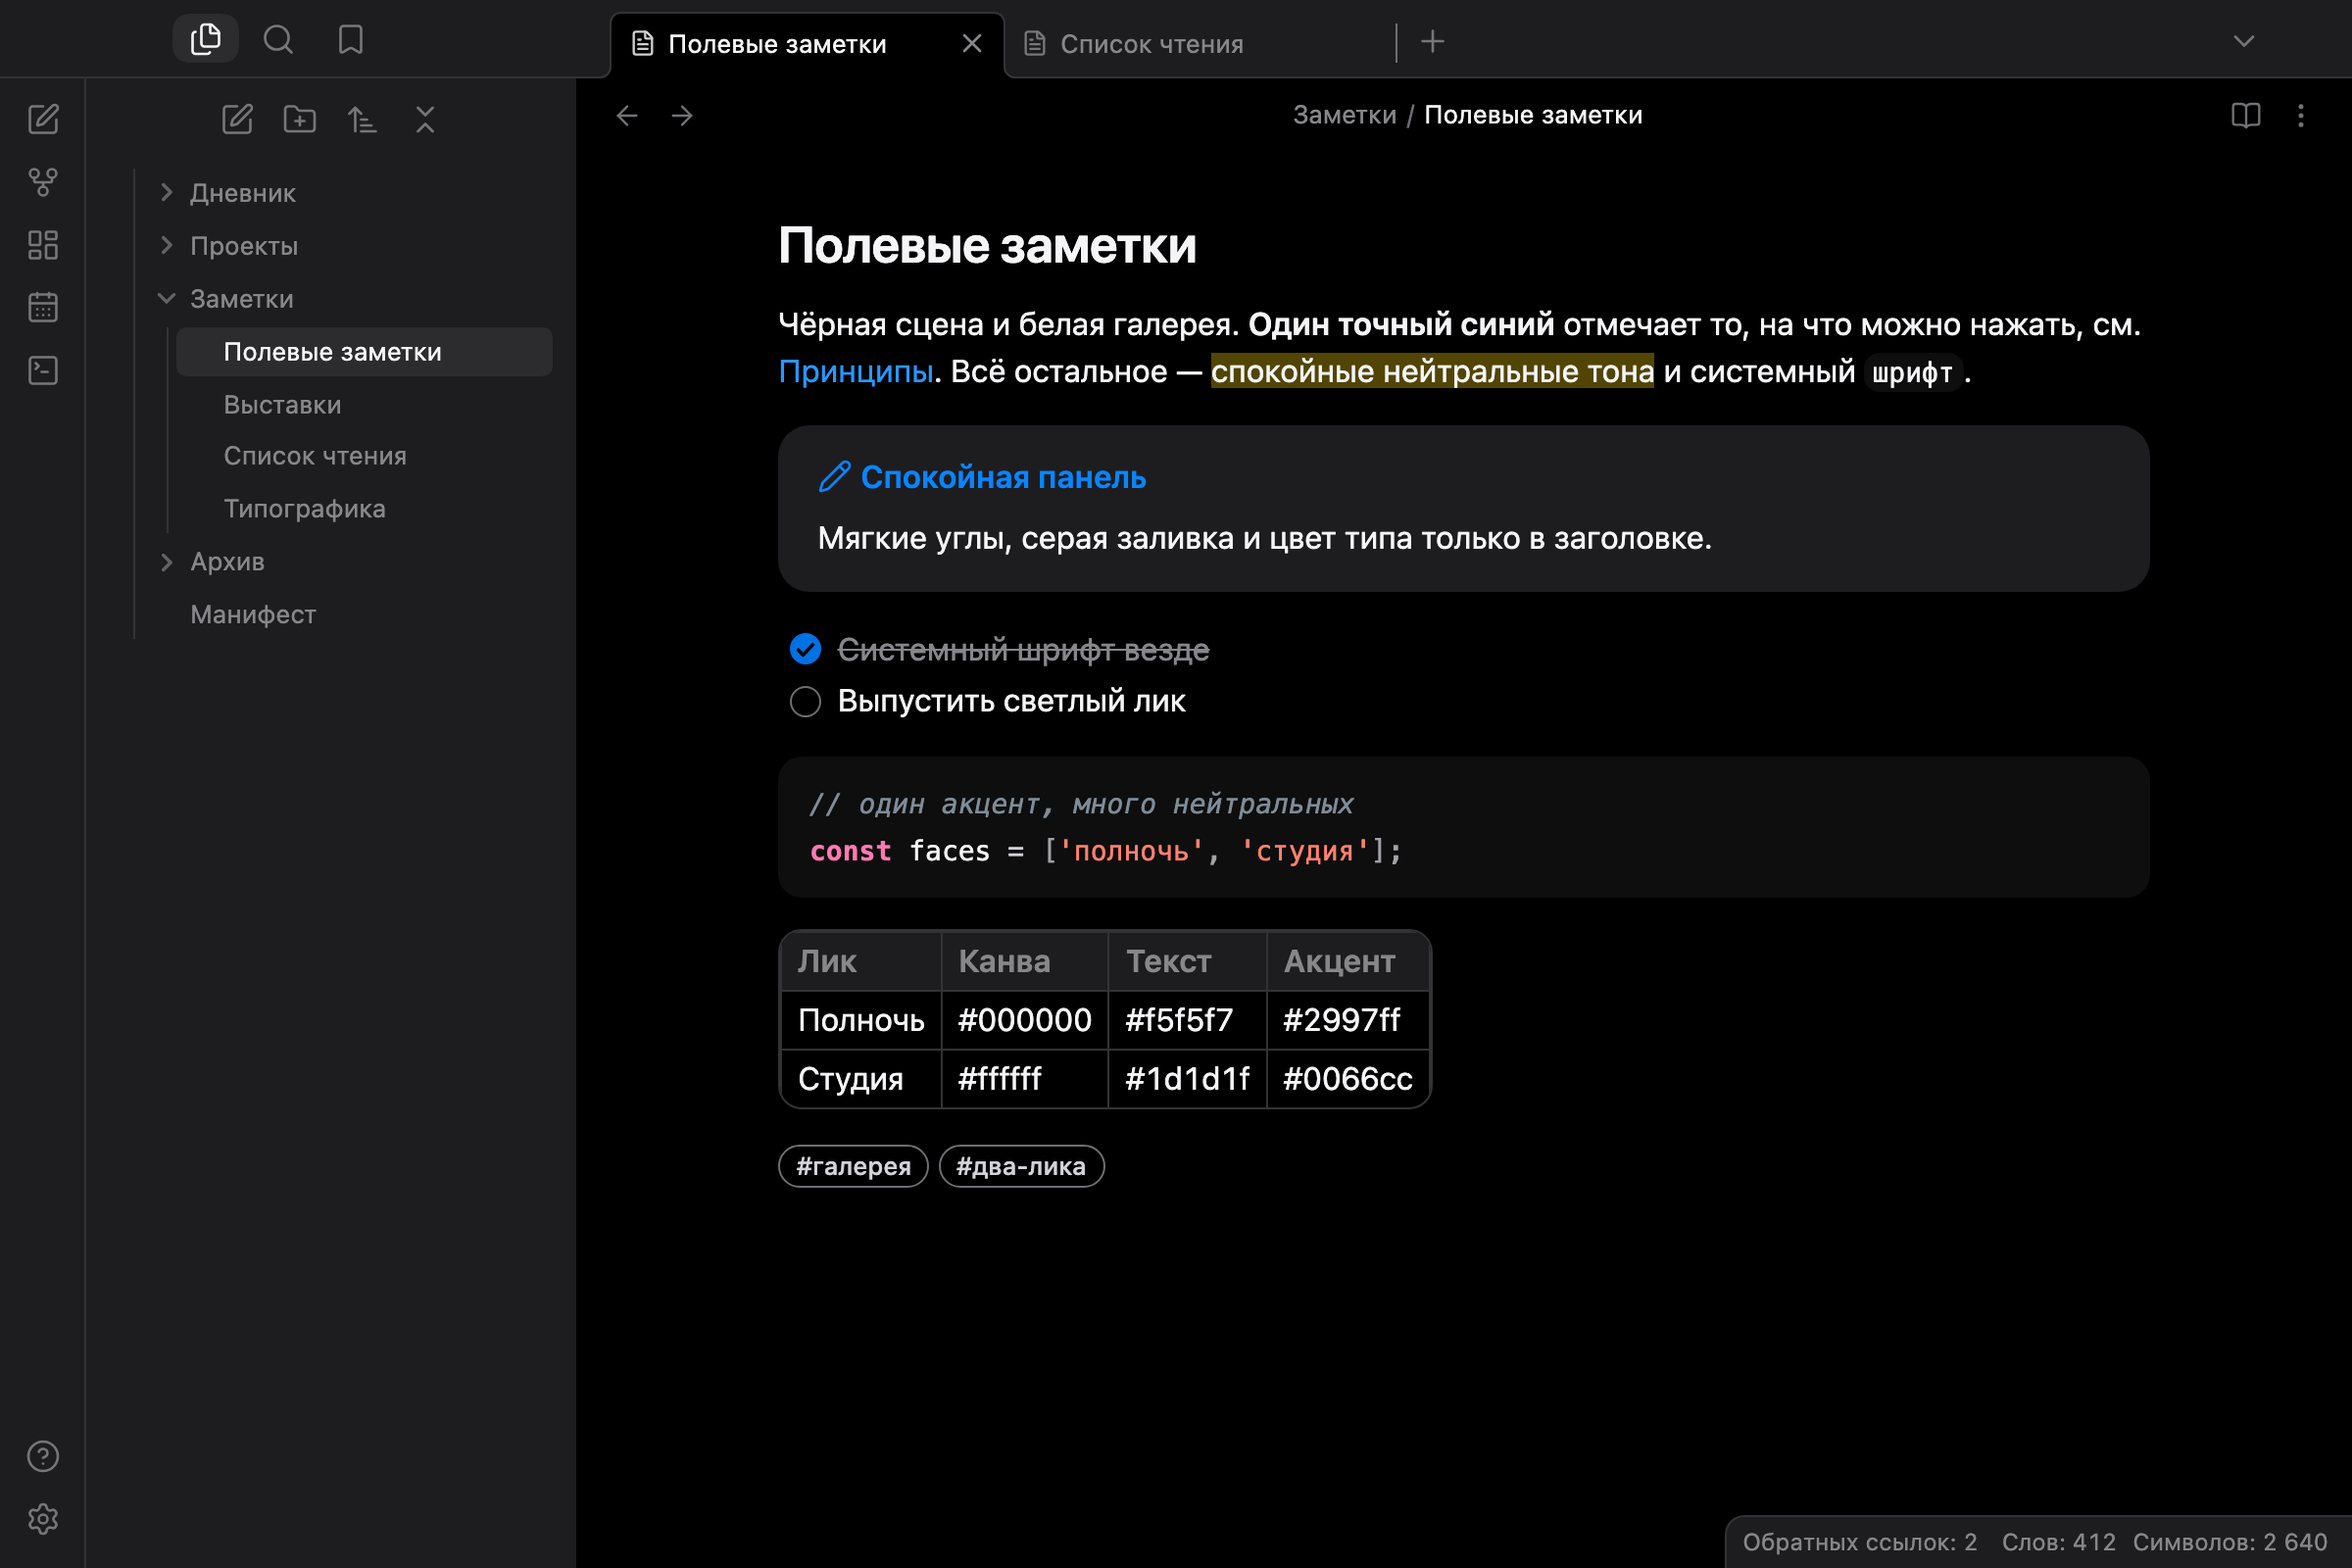
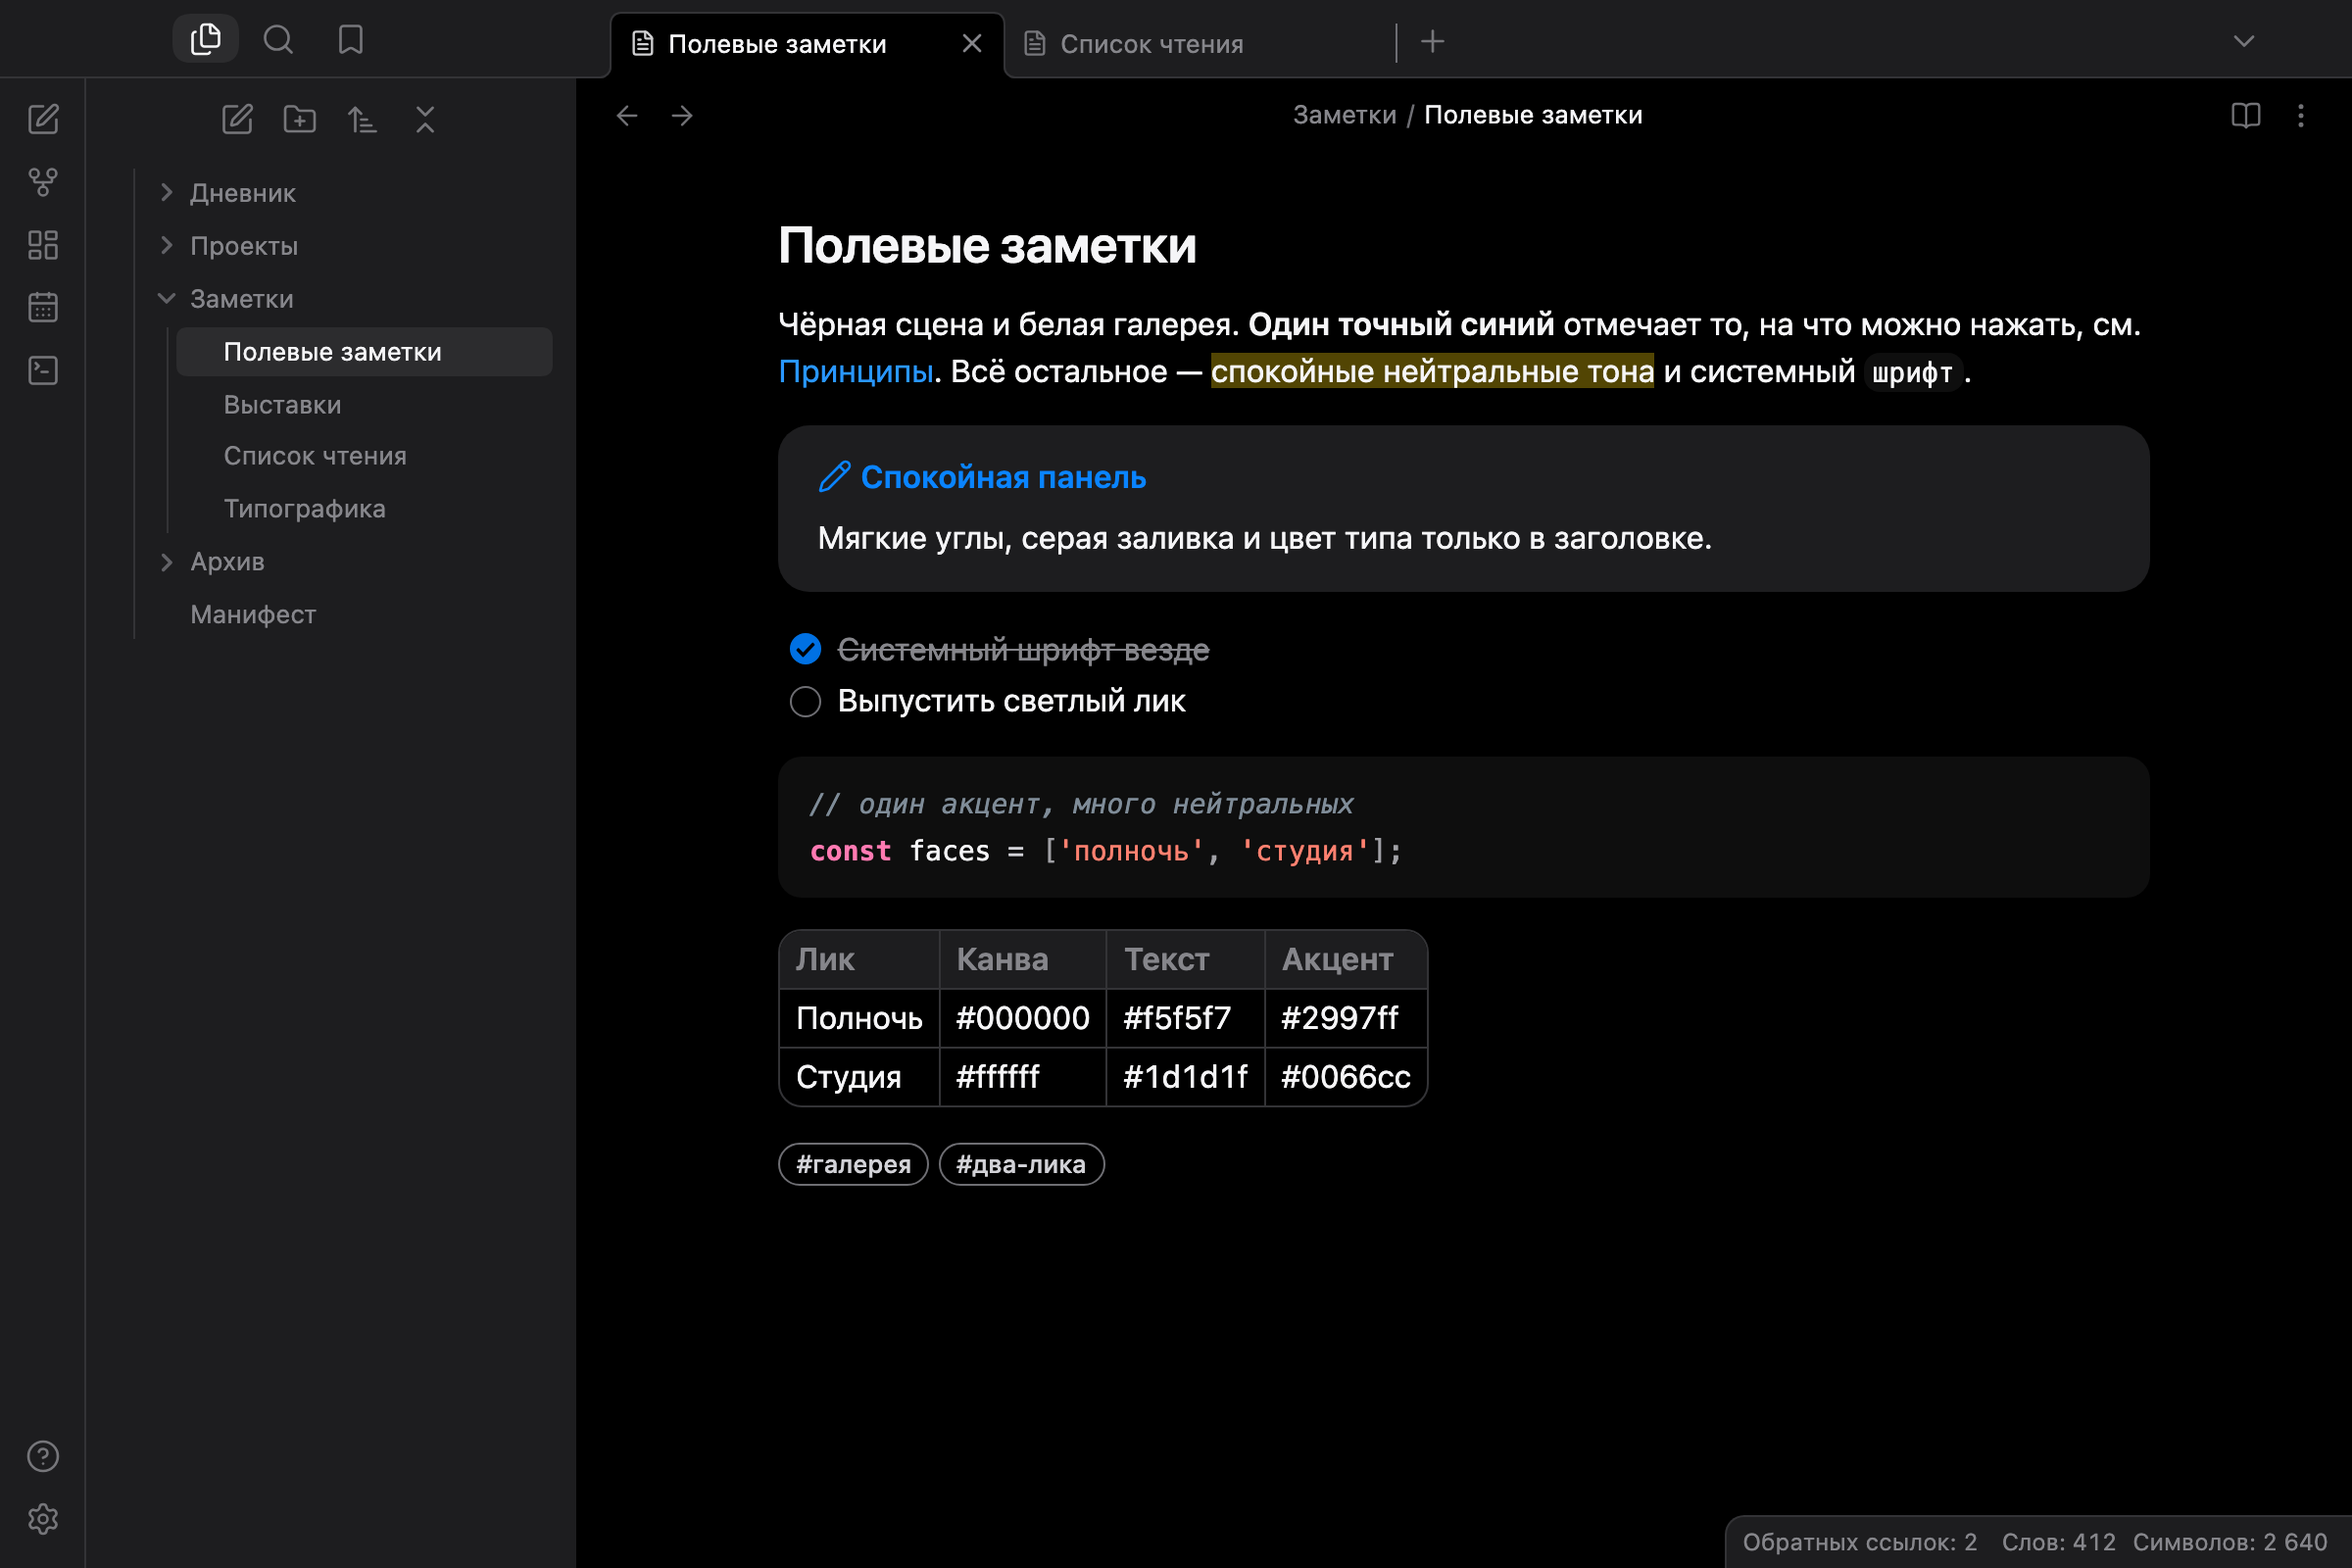
fix: 1.0.1, draw the table frame once

Changed region(s): [[0.3438, 0.5938, 0.625, 0.75]]

diff --git a/theme.css b/theme.css
@@ -297,6 +297,10 @@ body {
 
 body {
   --table-border-width: 1px;
+  --table-column-first-border-width: 0;
+  --table-column-last-border-width: 0;
+  --table-header-border-width: 0;
+  --table-row-last-border-width: 0;
   --table-border-color: var(--hairline);
   --table-header-background: var(--surface);
   --table-header-background-hover: var(--hover);
